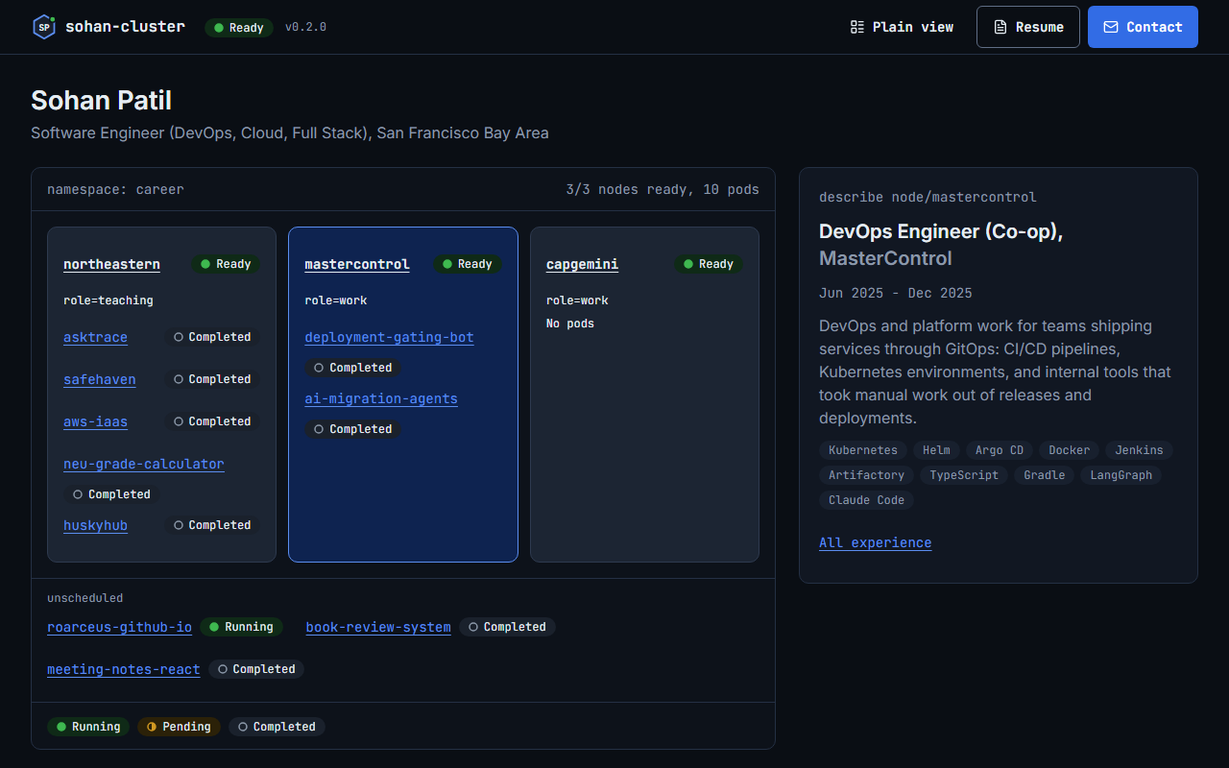
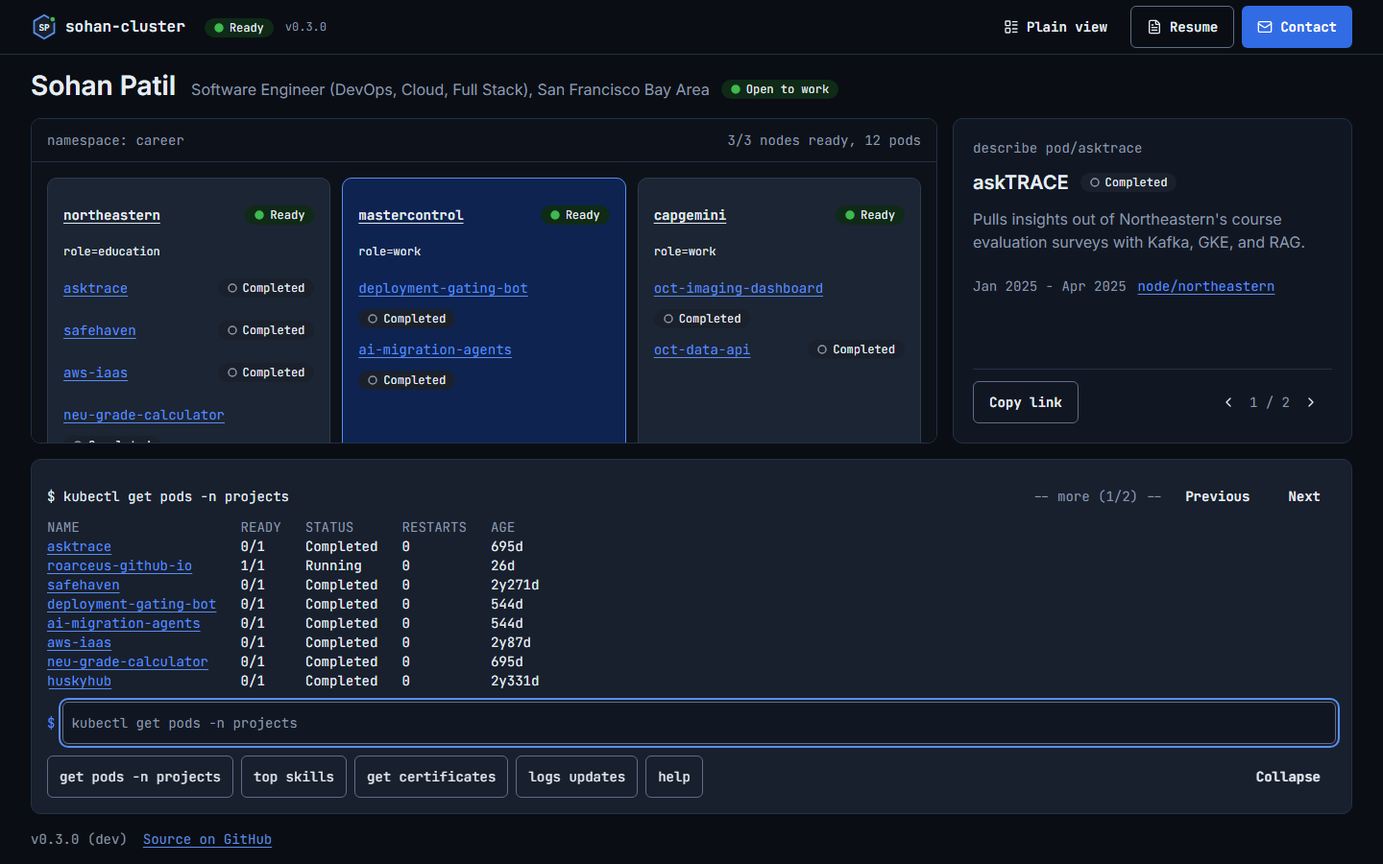
docs(docs): wrap up stage 3 and tighten the island budget (#95)
Stage 3 sign-off: STATUS gets the shipped list, measurements from main
CI (unit, e2e, Lighthouse, budgets), and a retrospective. README gets
the terminal features, a diagram of how a command runs, the Stage 3
status, and a fresh dashboard screenshot with terminal output. The
island budget drops from 61440 to 21458 gzipped bytes (the measured
19507 plus 10%), so growth is caught early in Stage 4.

Closes #76

Changed region(s): [[0.0, 0.0, 1.0, 1.0], [0.6875, 0.0, 1.0, 0.0625], [0.75, 0.5625, 0.9688, 0.625]]

diff --git a/README.md b/README.md
@@ -13,22 +13,17 @@ switch to a plain, recruiter-friendly view.
 
 Coming next, already in PR previews behind a flag: the cluster dashboard on `/`.
 
-![The cluster dashboard: three career nodes with their project pods, unscheduled pods, and the details of the selected role](docs/assets/screenshot-dashboard.png)
+![The cluster dashboard: three career nodes with their project pods, the details of a described pod, and the terminal paging kubectl get pods output](docs/assets/screenshot-dashboard.png)
 
 ## Status
 
-**v0.3.0 is live: Stage 2 (design system and layout shell) is done.** It added the design tokens
-(AA-checked), UI components, a top bar on every page, a shorter plain view (jump chips and expanders), and
-the cluster dashboard shell on `/` (map placeholder, detail panel, terminal dock, phone cluster mode). The
-dashboard stays behind the `clusterDashboard` flag, on in PR previews and off in production, until the
-terminal (Stage 3) and the 3D cluster (Stage 4, [ADR 0005](docs/adr/0005-3d-cluster-one-screen.md)) make it real. Direction: [ADR 0002](docs/adr/0002-design-direction-tool-and-game.md),
-the UI is the tool, the cluster is the game. In progress: Stage 3, the terminal engine. On previews the
-terminal already runs commands in place: type them, or click chips and names. On desktops at least
-1024 by 700 pixels the dashboard fits one screen: the terminal shows the latest result and pages a long
-one like `less` instead of scrolling, and the detail panel follows every `describe` and pages long details
-([ADR 0005](docs/adr/0005-3d-cluster-one-screen.md)); on phones the bottom sheet shows the output. Every view has a shareable `?run=` link,
-and Back and Forward step through what you viewed. `kubectl apply -f contact.yaml` (or the Contact
-button) opens a contact form shaped like a YAML manifest in the detail panel, without leaving the page
+**Stage 3 (terminal engine) is done; v0.4.0 ships with its release PR. v0.3.0 is live.** Stage 3 made the
+dashboard's terminal real: `kubectl`-style commands with real-looking output, Tab completion, history, and
+clickable names and chips that run in place. On desktops at least 1024 by 700 pixels the dashboard fits one
+screen and nothing scrolls: long output and long details page like `less`
+([ADR 0005](docs/adr/0005-3d-cluster-one-screen.md)). The dashboard stays behind the `clusterDashboard`
+flag, on in PR previews and off in production, until the 3D cluster (Stage 4) makes it whole. Direction:
+[ADR 0002](docs/adr/0002-design-direction-tool-and-game.md), the UI is the tool, the cluster is the game
 ([design](docs/plans/stage-3-design.md), [plan](docs/plans/stage-3.md)). Progress:
 [`docs/STATUS.md`](docs/STATUS.md) · [project board](https://github.com/users/roarceus/projects/1) ·
 [changelog](CHANGELOG.md) (from v0.1.0).
@@ -47,6 +42,20 @@ Planned per stage ([SPEC §11](docs/SPEC.md)):
 | 5 — Boot sequence and polish | 0.6.0   | Boot animation, transitions, OG images, tap-first mobile cluster                                              |
 | 6 — Game layer               | 0.7.0   | Self-healing pods, chaos mode, badges, easter eggs                                                            |
 | 7 — Hardening                | 1.0.0   | Accessibility and performance passes, cross-browser checks, launch                                            |
+
+### The terminal (Stage 3, in previews)
+
+- **Commands:** `get` (nodes, experience, pods, certificates, achievements, events, all; `-o wide`, `-o yaml`,
+  `-o name`), `describe node|pod`, `top skills`, `logs updates -f`, `apply -f contact.yaml`,
+  `port-forward github|linkedin`, `config use-context plain`, `cluster-info`, `version`, `help`, `clear`.
+  Errors read like kubectl's, with a "Did you mean this?" suggestion.
+- **Typing:** Tab completes commands, flags, and names; Up and Down walk the history; Ctrl+C and Ctrl+L work.
+- **Clicking:** chips, table names, and help entries run in place; without JavaScript they are plain-view links.
+- **Detail panel:** follows every `describe`; on phones it is the bottom sheet where output shows.
+- **Links:** every view has a shareable `?run=` URL (read-only commands only), and Back and Forward step
+  through views.
+- **Contact:** `apply -f contact.yaml`, or the top bar Contact button on the dashboard, opens a contact form
+  shaped like a YAML manifest in the detail panel.
 
 Everything stays reachable without typing (clickable map, command chips, plain view), works from 320px to
 2560px, and respects reduced motion.
@@ -76,6 +85,21 @@ flowchart LR
   end
   content[("content/<br/>YAML + Markdown")] -.->|astro:content, read only via lib/content| lib
   src -->|astro build| dist["dist/<br/>static HTML, CSS, fonts"]
+```
+
+How a command runs (Stage 3): every way in goes through one function, and the islands only read stores.
+
+```mermaid
+flowchart LR
+  input["typed input<br/>chips, names, help"] --> run["runCommand<br/>lib/state/run.ts"]
+  deep["?run= links<br/>Back / Forward"] --> run
+  topbar["top bar Contact<br/>(data-run)"] --> run
+  run --> parser["parser<br/>lib/parser"]
+  parser --> registry["registry + commands<br/>lib/commands"]
+  snapshot[("cluster.&lt;hash&gt;.json<br/>content snapshot")] -.->|loaded once| registry
+  registry -->|plain data, never HTML| stores["nanostores<br/>$terminal, $selection"]
+  stores --> terminal["Terminal island<br/>output, paging"]
+  stores --> panel["DetailPanel island<br/>details, contact form (lazy)"]
 ```
 
 `lib/` never imports React, Astro, or UI code (enforced by ESLint and dependency-cruiser), so all logic is
@@ -174,16 +198,16 @@ flowchart LR
   tag --> deploy["deploy to gh-pages root"] --> smoke["smoke tests on production"]
 ```
 
-| Workflow        | Runs on             | What it does                                                                                                                                                                                                                                                                                                                                                                                                                                                                                                                                                                                                                                                                                                                                                                                                                                                                                                                                                                             |
-| --------------- | ------------------- | ---------------------------------------------------------------------------------------------------------------------------------------------------------------------------------------------------------------------------------------------------------------------------------------------------------------------------------------------------------------------------------------------------------------------------------------------------------------------------------------------------------------------------------------------------------------------------------------------------------------------------------------------------------------------------------------------------------------------------------------------------------------------------------------------------------------------------------------------------------------------------------------------------------------------------------------------------------------------------------------- |
-| `ci.yml`        | PRs, `main`         | Format, lint, typecheck, knip, dependency rules, unit tests + coverage, `pnpm audit` (high, prod deps), build (also under a preview base path, and a second build with the `clusterDashboard` flag, whose terminal data file must stay under 30 KB gzipped), a CSP audit of every built page (ADR 0004), JavaScript budgets from `.github/budgets.json` (dashboard island code under 60 KB gzipped without the shared React runtime, the dashboard startup total, and production pages no larger than in v0.3.0), Playwright + axe on Chromium, Firefox, and WebKit across desktop, phone, and tablet sizes (the `@dashboard` specs run against the flag build; any CSP violation fails a test), Lighthouse mobile budgets on home, the plain view, a project page, updates, the 404 page, and the dashboard home (perf ≥ 90, a11y/best practices/SEO ≥ 95; the noindex 404 page skips only the indexing audit), offline link check, dependency review. `ci-ok` passes only if all pass. |
-| `pr-title.yml`  | PRs                 | PR title is a Conventional Commit with an allowed type and scope, ≤ 72 chars (it becomes the squash commit). Adds `type:` and `area:` labels.                                                                                                                                                                                                                                                                                                                                                                                                                                                                                                                                                                                                                                                                                                                                                                                                                                            |
-| `preview.yml`   | PRs                 | Builds under `/pr-preview/pr-<N>/` with unfinished features on (`PUBLIC_ENABLED_FLAGS=clusterDashboard`), deploys to `gh-pages`, comments the URL, smoke-tests it, removes it on close.                                                                                                                                                                                                                                                                                                                                                                                                                                                                                                                                                                                                                                                                                                                                                                                                  |
-| `release.yml`   | `main`, manual      | release-please (GitHub App token) keeps a release PR open; merging it tags, deploys production, and smoke-tests it. Manual run with a tag = rollback.                                                                                                                                                                                                                                                                                                                                                                                                                                                                                                                                                                                                                                                                                                                                                                                                                                    |
-| `codeql.yml`    | PRs, `main`, weekly | CodeQL security and quality queries (JavaScript/TypeScript).                                                                                                                                                                                                                                                                                                                                                                                                                                                                                                                                                                                                                                                                                                                                                                                                                                                                                                                             |
-| `scorecard.yml` | `main`, weekly      | OpenSSF Scorecard supply-chain checks (Security tab and badge).                                                                                                                                                                                                                                                                                                                                                                                                                                                                                                                                                                                                                                                                                                                                                                                                                                                                                                                          |
-| `scheduled.yml` | weekly, quarterly   | Smoke tests, external links, and Lighthouse against production; a failure opens one `ops` issue that closes itself on recovery. Quarterly content-review issue.                                                                                                                                                                                                                                                                                                                                                                                                                                                                                                                                                                                                                                                                                                                                                                                                                          |
-| `labels.yml`    | `main`, manual      | Syncs labels from `.github/labels.yml`.                                                                                                                                                                                                                                                                                                                                                                                                                                                                                                                                                                                                                                                                                                                                                                                                                                                                                                                                                  |
+| Workflow        | Runs on             | What it does                                                                                                                                                                                                                                                                                                                                                                                                                                                                                                                                                                                                                                                                                                                                                                                                                                                                                                                                                                       |
+| --------------- | ------------------- | ---------------------------------------------------------------------------------------------------------------------------------------------------------------------------------------------------------------------------------------------------------------------------------------------------------------------------------------------------------------------------------------------------------------------------------------------------------------------------------------------------------------------------------------------------------------------------------------------------------------------------------------------------------------------------------------------------------------------------------------------------------------------------------------------------------------------------------------------------------------------------------------------------------------------------------------------------------------------------------- |
+| `ci.yml`        | PRs, `main`         | Format, lint, typecheck, knip, dependency rules, unit tests + coverage, `pnpm audit` (high, prod deps), build (also under a preview base path, and a second build with the `clusterDashboard` flag, whose terminal data file must stay under 30 KB gzipped), a CSP audit of every built page (ADR 0004), JavaScript budgets from `.github/budgets.json` (dashboard island code without the shared React runtime, the dashboard startup total, and production page scripts; limits and reasons in the file), Playwright + axe on Chromium, Firefox, and WebKit across desktop, phone, and tablet sizes (the `@dashboard` specs run against the flag build; any CSP violation fails a test), Lighthouse mobile budgets on home, the plain view, a project page, updates, the 404 page, and the dashboard home (perf ≥ 90, a11y/best practices/SEO ≥ 95; the noindex 404 page skips only the indexing audit), offline link check, dependency review. `ci-ok` passes only if all pass. |
+| `pr-title.yml`  | PRs                 | PR title is a Conventional Commit with an allowed type and scope, ≤ 72 chars (it becomes the squash commit). Adds `type:` and `area:` labels.                                                                                                                                                                                                                                                                                                                                                                                                                                                                                                                                                                                                                                                                                                                                                                                                                                      |
+| `preview.yml`   | PRs                 | Builds under `/pr-preview/pr-<N>/` with unfinished features on (`PUBLIC_ENABLED_FLAGS=clusterDashboard`), deploys to `gh-pages`, comments the URL, smoke-tests it, removes it on close.                                                                                                                                                                                                                                                                                                                                                                                                                                                                                                                                                                                                                                                                                                                                                                                            |
+| `release.yml`   | `main`, manual      | release-please (GitHub App token) keeps a release PR open; merging it tags, deploys production, and smoke-tests it. Manual run with a tag = rollback.                                                                                                                                                                                                                                                                                                                                                                                                                                                                                                                                                                                                                                                                                                                                                                                                                              |
+| `codeql.yml`    | PRs, `main`, weekly | CodeQL security and quality queries (JavaScript/TypeScript).                                                                                                                                                                                                                                                                                                                                                                                                                                                                                                                                                                                                                                                                                                                                                                                                                                                                                                                       |
+| `scorecard.yml` | `main`, weekly      | OpenSSF Scorecard supply-chain checks (Security tab and badge).                                                                                                                                                                                                                                                                                                                                                                                                                                                                                                                                                                                                                                                                                                                                                                                                                                                                                                                    |
+| `scheduled.yml` | weekly, quarterly   | Smoke tests, external links, and Lighthouse against production; a failure opens one `ops` issue that closes itself on recovery. Quarterly content-review issue.                                                                                                                                                                                                                                                                                                                                                                                                                                                                                                                                                                                                                                                                                                                                                                                                                    |
+| `labels.yml`    | `main`, manual      | Syncs labels from `.github/labels.yml`.                                                                                                                                                                                                                                                                                                                                                                                                                                                                                                                                                                                                                                                                                                                                                                                                                                                                                                                                            |
 
 Required status checks on `main`: **`ci-ok`** and **`validate`**. All actions are pinned to commit SHAs
 and every job declares least-privilege permissions.

diff --git a/docs/STATUS.md b/docs/STATUS.md
@@ -1,52 +1,47 @@
 # Status
 
-_Last updated: 2026-11-26_
+_Last updated: 2026-11-27_
 
 ## Current stage
 
-**Stage 3 — Terminal engine: in progress** (Tasks 1 to 8 of 9: plan #77, parser #78, snapshot #80, commands #84, store #85, terminal island #87, one-screen layout #88; direction ADR 0005 #89; budgets #90; terminal paging #91; detail panel #92; deep links #93; contact manifest, Task 8). v0.3.0 is live. Design:
-[`plans/stage-3-design.md`](plans/stage-3-design.md) (approved with changes 2026-11-25). Plan:
-[`plans/stage-3.md`](plans/stage-3.md) (approved) ·
-[milestone](https://github.com/roarceus/roarceus.github.io/milestone/4) (#68 to #76). Store:
-[ADR 0003](adr/0003-nanostores-for-island-state.md). The dashboard stays behind `clusterDashboard` until
-Stage 4. The CSP now comes from Astro with hashed inline scripts ([ADR 0004](adr/0004-astro-hashed-csp.md), #86),
-so islands load without `'unsafe-inline'`; CI audits every built page. **Direction (2026-11-26):** the 3D
-cluster becomes the v1.0 desktop experience on one fixed screen where nothing scrolls, with a pod you can step
-inside ([ADR 0005](adr/0005-3d-cluster-one-screen.md); concept: [`concepts/cluster-3d-concept.html`](concepts/cluster-3d-concept.html)).
+**Stage 3 (terminal engine): done**, pending the v0.4.0 release PR (#79). v0.3.0 is live. Next: Stage 4, the
+3D cluster on one fixed screen where nothing scrolls ([ADR 0005](adr/0005-3d-cluster-one-screen.md); concept:
+[`concepts/cluster-3d-concept.html`](concepts/cluster-3d-concept.html)). The dashboard stays behind
+`clusterDashboard` until then. Stage 3 design: [`plans/stage-3-design.md`](plans/stage-3-design.md); plan:
+[`plans/stage-3.md`](plans/stage-3.md); [milestone](https://github.com/roarceus/roarceus.github.io/milestone/4).
 
-## Stage 2 sign-off
+## Stage 3 sign-off
 
-- **Shipped:** the design direction ADR (#57); design tokens with AA contrast and scene-scope checks (#58);
-  UI components (#60); the top bar, site mark, and Lucide icons (#61); a shorter plain view with jump chips
-  and expanders (#62); cluster data helpers and feature flags (#64); the dashboard shell on `/` behind the
-  `clusterDashboard` flag (#65), widened to 1920px with the top bar lined up (#66); a WebKit heading
-  contrast fix (#63).
-- **Checks:** Lighthouse mobile 100/100/100/100 on `/` (both builds), `/plain/`, a project page, and
-  `/updates/`; the 404 page 100/100/100 (SEO 63 by design: noindex). e2e passes on Chromium, Firefox, and
-  WebKit at phone, tablet, and desktop sizes, plus the `@dashboard` specs against the flag build and a width
-  check at 1280, 1920, and 2560px. Previews checked at 375 and 1920px.
-- **Spec updates:** "One playground" (SPEC §4): the cluster view never leaves the page; chips and names run
-  in place from Stage 3. Stage 4 replaces the placeholder cards with nodes sized to their pods.
-- **Links:** last preview https://roarceus.github.io/pr-preview/pr-66/ · release PR #59 (v0.3.0) ·
-  screenshots in `assets/`.
+- **Shipped:** plan (#77); command parser (#78); content snapshot (#80); commands and registry (#84);
+  nanostores store (#85, [ADR 0003](adr/0003-nanostores-for-island-state.md)); Astro hashed CSP with no
+  `'unsafe-inline'` (#86, [ADR 0004](adr/0004-astro-hashed-csp.md)); terminal island (#87); one-screen desktop
+  layout (#88); 3D direction (#89, ADR 0005); JavaScript budgets and a shared React runtime chunk (#90);
+  terminal paging (#91); detail panel island (#92); `?run=` deep links (#93); contact manifest (#94).
+- **Checks (main CI at 92d3673):** 927 unit tests, coverage 95.8% statements and 90.3% branches. e2e
+  production 1119 passed (Chromium 282, Firefox 186, WebKit 651); `@dashboard` 347 passed (95, 71, 181).
+  Lighthouse mobile 100/100/100/100 on `/` (both builds), `/plain/`, a project page, and `/updates/`; the
+  404 page 100/100/100 (SEO 63 by design: noindex).
+- **Budgets (gzipped):** dashboard island code 19507 (limit tightened to 21458), dashboard startup 89345 of
+  92049, production `/` 0, `/plain/` 2164 of 2380 (raised in #94 for the shared contact chunk).
+- **Links:** last preview https://roarceus.github.io/pr-preview/pr-94/; screenshot
+  `assets/screenshot-dashboard.png`.
 
 ## Retrospective
 
-- **Went well:** the design proposal and review before code meant no layout rework; the contrast test caught
-  two failing pairs (primary hover, selected scene) before review; building a second, flagged site in CI let
-  the dashboard ship to previews without touching production.
-- **Didn't:** the WebKit heading flake failed 19 of 20 CI runs, hidden by retries, before anyone looked.
-  Phone smoke failed only on the preview because the test counted a hidden region as missing. The new
-  `dist-dashboard` folder got scanned by lint and typecheck. A width cap left wide empty gutters at 1920px,
-  found by Sohan, not by tests.
-- **Change next stage:** read retried test logs, not just the green check; run smoke against a local flag
-  build when changing what it checks; check layouts at 1920 and 2560px before opening a UI PR.
+- **Went well:** tests first kept command output exact; the e2e matrix caught two regressions before review
+  (the pager jumping when its own button took focus, and a sixth chip that shrank the panel); the budget
+  check caught the plain view growing; the ledger kept every ruling and its cost in one place.
+- **Didn't:** the panel's pager took Space from typed text until Task 8, found only in a preview; a WebKit
+  hydration mismatch (#93) showed up only in e2e; the plan and ADR 0005 disagreed on where Contact opens;
+  a lazy-load fix for the budget was proposed before measuring Vite's preload helper, and made it worse.
+- **Change next stage:** check forms and long content at 1024x700 before opening a UI PR; when an ADR
+  changes direction, update the plan in the same PR; measure bundle changes before proposing size fixes.
 
 ## Next steps
 
-1. Review the contact manifest PR (Task 8), then Task 9, the Stage 3 wrap-up (`plans/stage-3.md`). Stage 4 is
-   now the 3D scene with a 2D fallback.
-2. Carried over: submit the sitemap in Google Search Console; check the share card in a link inspector
+1. Sohan: merge the release PR for v0.4.0 (#79), then confirm production smoke shows the dashboard still off.
+2. Stage 4 planning: the 3D scene with a 2D fallback (ADR 0005); start with `docs/plans/stage-4.md`.
+3. Carried over: submit the sitemap in Google Search Console; check the share card in a link inspector
    (runbook: `docs/runbooks/share-image.md`); set up the uptime monitor (M10); decide on Renovate's
    queued TypeScript 7 PR.
 
@@ -59,7 +54,6 @@ inside ([ADR 0005](adr/0005-3d-cluster-one-screen.md); concept: [`concepts/clust
 
 - The detail panel is cramped at 1024x700: a pod takes 5 pages, and the contact form pages too (focus
   turns to the right page, so it still works). Revisit when Stage 4 lays out the 3D scene.
-
 - The no-JS contact form post flaked once on WebKit at 320px (not seen in 25 runs before). Watching it.
 - GitHub Pages serves only the root `404.html`, so a missing page under a PR preview shows production's
   404 page.

diff --git a/docs/plans/stage-3.md b/docs/plans/stage-3.md
@@ -467,9 +467,9 @@ does not exist`; the manifest form validates with `validateContact` (errors next
 
 ### Task 9: Stage 3 wrap-up (PR 9)
 
-- [ ] README: features (commands), architecture diagram (parser, registry, store, islands, snapshot),
+- [x] README: features (commands), architecture diagram (parser, registry, store, islands, snapshot),
       budgets, status; refresh `docs/assets/screenshot-dashboard.png` with terminal output.
-- [ ] STATUS: sign-off with measurements and links, retrospective; tighten the island budget to the
+- [x] STATUS: sign-off with measurements and links, retrospective; tighten the island budget to the
       measured size + 10%.
-- [ ] This plan ticked; then Sohan merges the release PR for v0.4.0 and production smoke confirms the
-      dashboard is still off.
+- [x] This plan ticked. Left for Sohan: merge the release PR for v0.4.0 (#79) and confirm production smoke
+      shows the dashboard still off.
